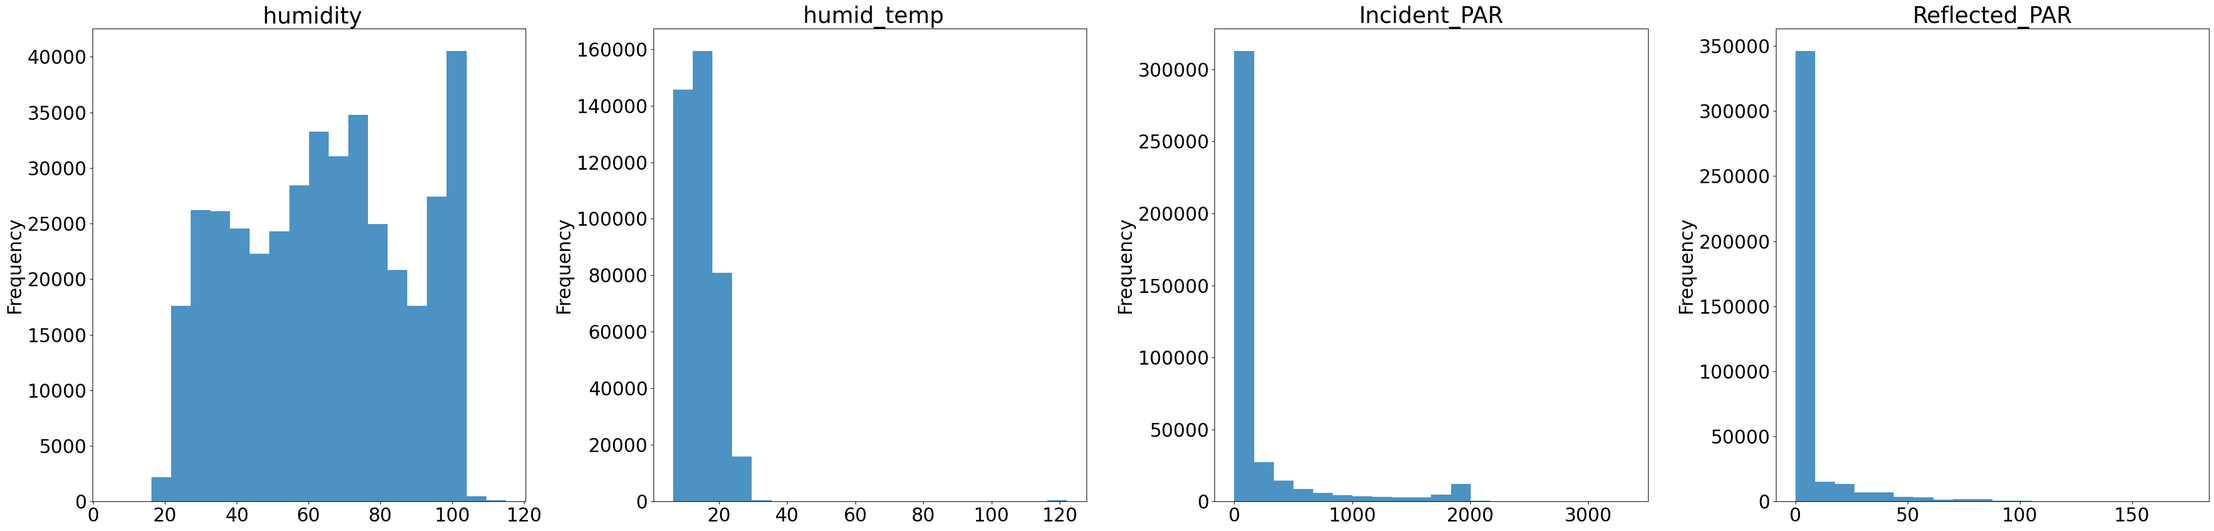
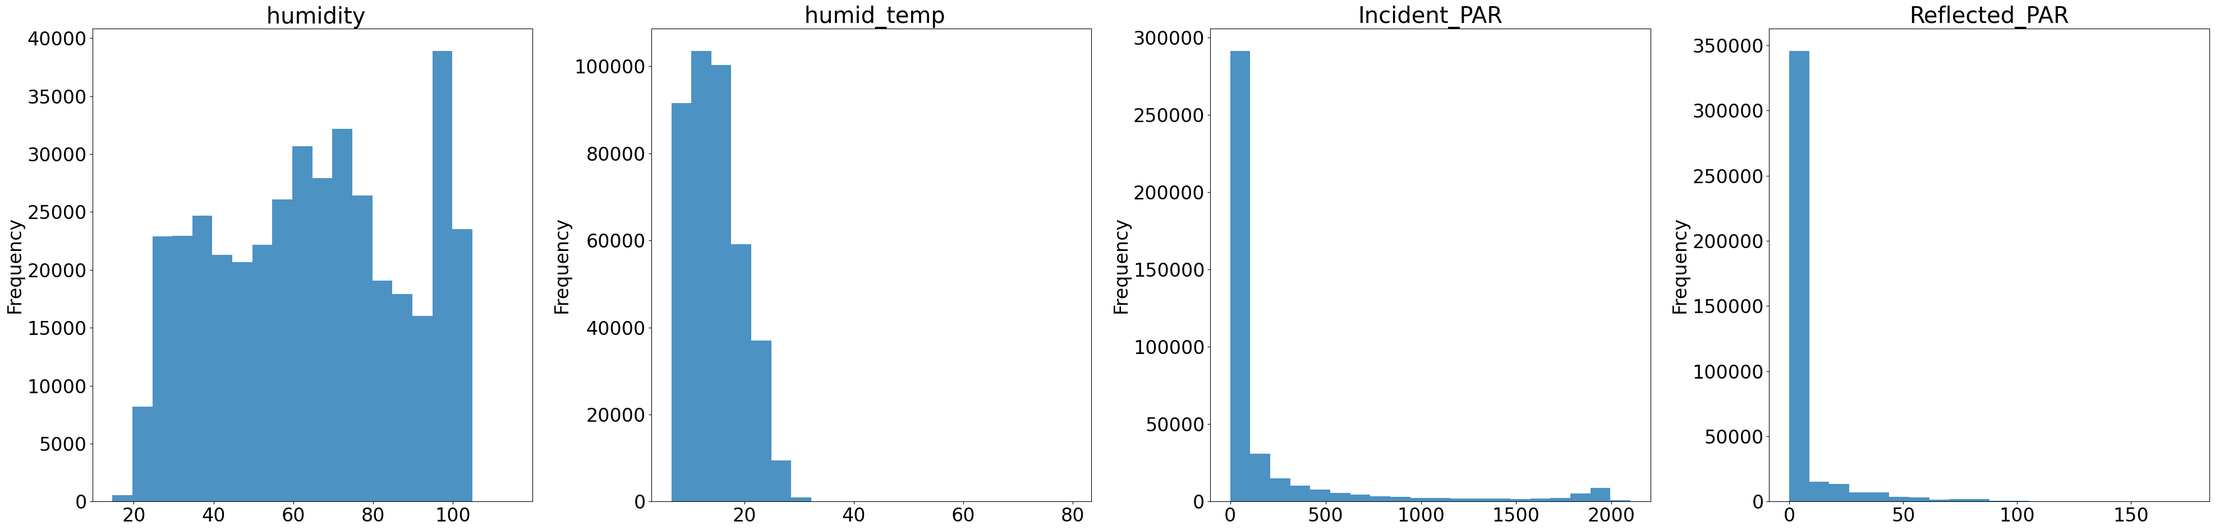
Updates from Overleaf

diff --git a/report.tex b/report.tex
@@ -24,13 +24,12 @@
 
 \section{Summary}
 \subsection{Paper Overview}
-The Redwoods paper demonstrated a case study by showing utilizing a sensor network enables a 
-more in-depth analysis of any organism. With better technology, we can capture much more data in longitude and granularity than we previously could using a single, limited piece of equipment.
-The motivation comes from numerous questions and requests from the local biologists. They have many intriguing things like studying, but the data availability hinders the observability and precludes
+The Redwoods paper provides a case study demonstrating that utilization of a sensor network could enable a more in-depth analysis of an organism. With better technology, we can capture much more data in longitude and granularity than we previously could using a single, limited piece of equipment.
+The motivation comes from numerous questions and requests from the local biologists. These scientists have many intriguing things to study, but the poor data availability hinders observability and precludes
 the possibility. The team decided on this study because the coastal redwood has a known micro-climate phenomenal variation within and across the days. It is the perfect subject for the demonstration and a great testbed to discover any limitations. With all these, the team showed that the newly acquired data reveals a much more complex dynamic system that Biologists have never been able to observe directly. The analysis also confirms that the redwood experiences substantial variation in temperature, moisture, and light levels throughout the day at its weather fronts.
 
 \subsection{Data Collection}
-The sensor network consists of 33 motes, a central network gateway, and an internal data logging backup. Each sensor is perfectly weathered while safely exposing the sensors, has its own battery, operating system, a top sensor for incident photosynthetically active radiation (PAR), and a bottom sensor for temperature, humidity, and reflected PAR. On average, they placed sensors across the entire redwood, mostly near the trunk and within a 1-meter radius, with 2-meter spacing. The placement started at the 15-meter mark and up to the pinnacle of the tree 67-meter. Such placement and spacing enable the sensors to capture the microclimate of the tree with the entire spectrum rather than the broader climate, which is our point of interest. One additional detail is that they placed most of their sensors on the west side of the tree because it has a ticker canopy to shield against environmental effects.
+The sensor network consists of 33 motes, a central network gateway, and an internal data logging backup. Each sensor is perfectly weathered while safely exposing the sensors. It has its battery, operating system, a top sensor for incident photosynthetically active radiation (PAR), and a bottom sensor for temperature, humidity, and reflected PAR. On average, they placed sensors across the entire redwood, mainly near the trunk and within a 1-meter radius, with 2-meter spacing. The placement started at the 15-meter mark and went up to the pinnacle of the tree 67-meter. Such placement and spacing enable the sensors to capture the microclimate of the tree with the entire spectrum rather than the broader climate, which is our point of interest. Another detail is that they placed most of their sensors on the west side of the tree because it has a ticker canopy to shield it against environmental effects.
 
 After nailing down the deployment plan, we have a few more things to confirm. The length of deployment is 44 days, starting on Tuesday, April 27th, 2004, at 5:10 pm and ending on Thursday, June 10th, 2004, at 2:00 pm. It also has a 5-minute sampling frequency. To put it precisely, it is up 4s every 5-minute to log the current sensor values, send it out through the network, and back to sleep again --- a 1.3\% duty cycle. In case of network failure, the readings were saved in the local logging system, which was retrieved after the experiment; however, it has a limited storage space and only works when the sensor battery is still up. 
 
@@ -44,11 +43,11 @@ The data comes in two separate files.
     \item \textit{sonoma\_log} corresponding to measurements stored in the internal logging system of each sensor.
     \item \textit{sonoma\_net} corresponding to measurements stored in a network cloud system by each sensor.
 \end{enumerate}
-The two datasets correspond to how the data is collected. All sensors capturing a measurement at a given time attempt to write the measurement to a network database. Since the transmission might fail due to network issues, the sensor also writes the measurement to an internal database resulting in the log dataset. There are several implications of this process, and we will address them in the following sections.
+The two datasets correspond to how the data is collected. All sensors capture measurements at a given time and attempt to write the measurements to a network database. Since the transmission might fail due to network issues, the sensor also writes the measurement to an internal database resulting in the log dataset. There are several implications of this process, and we will address them in the following sections.
 \begin{enumerate}
     \item There are differences in how the various quantities are measured in the log and the network dataset. This is displayed in Figure \ref{fig1}, where histograms are plotted for the variables of interest. We have found that the differences are largely due to outliers.
     \item For a given sensor and a given time, there might be repeated measurements, one for the log and one for the sensor. In fact, we have found multiple sensors with multiple log and net readings at a given epoch. See Section 2.6 for details.
-    \item Data yield is also a concern, The paper mentioned that have around 800k data point yield, but we only have around 415k data points in the given dataset after combining both the logged and network values. The actual effective yield is much lower due to duplicate or off measurements.
+    \item Data yield is also a concern; The paper mentioned that we have around 800k data point yield, but we only have around 415k data points in the given dataset after combining both the logged and network values. The actual effective yield is much lower due to duplicate or off measurements.
 \end{enumerate} \\
 
 \begin{figure}[!h]
@@ -61,11 +60,12 @@ The two datasets correspond to how the data is collected. All sensors capturing 
 \subsection{Part A: Histograms \& Converting Ranges}
 Figure \ref{fig1} is meant to be compared to Figure 3a in the paper. This highlights two issues: 1) That the ranges of the data are not necessarily the same between the \textit{sonoma\_log} and the \textit{sonoma\_net} datasets, and 2) Some of the measurement units are different from that of the paper, as can be seen by the vastly different ranges. We see this in the PAR variables \textit{hamatop} and \textit{hamabot}. This is expressed in Tables \ref{table:sonoma_net_pre_transform} and \ref{table:sonoma_log_pre_transform}, where we plot several statistics for each variable of interest. Therefore, one should not concatenate the two files without any pre-processing.
 \\ \\
-We conducted two transformations:
-\begin{itemize}
-    \item For hamatop and hamabot in both datasets, we posit that the collected PAR number is under the unit of LUX, and we need to convert it down to $\mu mol/m^2/s$ by dividing it by $54$. 
-    \item For voltage in \textit{sonoma\_net},  we convert xx
-\end{itemize}
+We conducted two transformations for hamatop and hamabot in both datasets. We posit that the collected PAR number is under the unit of LUX, and we need to convert it down to $\mu mol/m^2/s$ by dividing it by $54$. 
+\\ \\
+Also, For voltage in \textit{sonoma\_net},  we note that the range is quite different from \textit{sonoma\_log} and that in the paper. However, we could not find the appropriate conversion and thus did not convert it even though it has some relevance for data cleaning afterward.
+\\
+
+
 Tables \ref{table:sonoma_net_post_transform} and \ref{table:sonoma_log_post_transform} show the statistics of the variables after the transformations. As we can see, the ranges of the two histograms are still not equal. This is due to outliers. We will address this in Part B.
 
 
@@ -101,7 +101,7 @@ Tables \ref{table:sonoma_net_post_transform} and \ref{table:sonoma_log_post_tran
     \hline
 \end{tabular}
 %\caption{Statistics for \textit{sonoma\_log} Pre-Transformation}
-\captionof{table}{Statistics for \textit{sonoma\_log} Pre-Transformation}
+\captionof{tabe}{Statistics for \textit{sonoma\_log} Pre-Transformation}
 \label{table:sonoma_log_pre_transform}
 \end{figure}
 
@@ -111,7 +111,6 @@ Tables \ref{table:sonoma_net_post_transform} and \ref{table:sonoma_log_post_tran
 \begin{tabular}{ |c|c|c|c|c|c| } 
     \hline & Median & Mean & SD & 25 Percentile & 75 Percentile \\ 
     \hline
-    Voltage & ? & ?& 227.22 & 218.0 & 227.0 \\
     Hamatop (incident PAR) & 0.0 & 213.36 & 462.27 & 0.0 & 156.22\\
     Hamabot (Reflected PAR) & 0.0 & 5.03	& 14.91 & 0.0 & 0.0 \\
     \hline
@@ -126,8 +125,8 @@ Tables \ref{table:sonoma_net_post_transform} and \ref{table:sonoma_log_post_tran
 \begin{tabular}{ |c|c|c|c|c|c| } 
     \hline & Median & Mean & SD & 25 Percentile & 75 Percentile \\ 
     \hline
-    Hamatop (incident PAR) & 0.0 & 201.302679 & 896.706333 & 0.00000 & 125.228333 \\
-    Hamabot (Reflected PAR) & 0.0 & 4.546960 & 21.858109 &  0.00000 & 0.000000 \\
+    Hamatop (incident PAR) & 0.0 & 201.30 & 896.71 & 0.00 & 125.23 \\
+    Hamabot (Reflected PAR) & 0.0 & 4.55 & 21.86 &  0.00 & 0.00 \\
     \hline
 \end{tabular}
 %\caption{Statistics for \textit{sonoma\_log} after change of units}
@@ -142,18 +141,18 @@ There are also several sensors with missing data recorded in at least one of the
 \captionsetup{justification=centering}
 \centering
 \begin{tabular}{ |c|c|c|c|c| } 
-    \hline & n Original & n After Missing Data Removed & n Missing & \% Missing \\
+    \hline & num Original & num After Missing Data Removed & num Missing & \% Missing \\
     \hline
-    \textit{sonoma\_log} & 301,056 & 292,786 & 8,270 &2.746\\ 
-    \textit{sonoma\_net}  & 114,980 & 110,718 & 4,262 & 3.706\\
+    \textit{sonoma\_log} & 301,056 & 292,786 & 8,270 &2.75\\ 
+    \textit{sonoma\_net}  & 114,980 & 110,718 & 4,262 & 3.71\\
     \hline
 \end{tabular}
 \captionof{table}{Size of log and network data sets, before and after missing data is removed.}
 \label{table:data_info}
 \end{figure}
 
-\subsection{Part C: Location Auxiliary Data}
-The next step is combining the measurements with the sensors' spatial information. This is done by joining the mote-location dataset with sonoma-log and sonoma-net on the ID and nodeid attributes. The resulting datasets have 14 columns each. The column names are listed in appendix b.
+\subsection{Part C: Combining Auxiliary Location Data}
+The next step is combining the measurements with the sensors' spatial information. This is done by joining the mote-location dataset with sonoma-log and sonoma-net on the ID and nodeid attributes. The resulting datasets have 14 columns each. The column names are listed in Appendix A.
 
 
 \subsection{Part D \& E: Outliers}
@@ -162,13 +161,13 @@ In this section, we further cleaned the data by removing outliers. We consider 2
     \item Outliers data measurements have abnormally high or low values of one of the variables of interest.
     \item Repeated measurements where a node has multiple measurements at a single epoch.
 \end{enumerate}
-Point 1. can be done in 2 ways. Firstly we combine the net and log data, threshold points are then set visually, and we classify data points beyond thresholds as outliers and remove them. To do this, we start off with the histogram in Figure \ref{fig3:combined_hist}. 
+Point 1. can be done in 2 ways. Firstly we combine the net and log data, threshold points are then set visually, and we classify data points beyond thresholds as outliers and remove them. To do this, we start with the histogram in Figure \ref{fig3:combined_hist}. 
 
 \begin{figure}[h!]
 \centering
 \captionsetup{justification=centering}
 \includegraphics[width=1.0\textwidth]{Fig3_combined_hist.png}
-\caption{Before the outlier removal}
+\caption{Histograms of humidity, temperature, incident PAR and reflected PAR before the outlier removal}
 \label{fig3:combined_hist}
 \end{figure}
 
@@ -176,27 +175,27 @@ We set the following manual thresholds for the 4  variables, humidity, temperate
 
 \begin{itemize}
     \item humid: \textit{humid} $<$ 5
-    \item Temperature: \textit{Temperature} $>$  140
-    \item Incident\_PAR: \textit{Incident\_PAR} $>$  110000
+    \item Temperature: \textit{Temperature} $>$  80
+    \item Incident\_PAR: \textit{Incident\_PAR} $>$  2100
     \item Reflected\_PAR: \textit{Reflected\_PAR} $>$  2000
 \end{itemize}
-In total, 864 points hit one of the conditions, with most data points (n=874) having a negative humidity. We further found that one data point is largely responsible for the large values in incident PAR and reflected PAR. After cleaning, the resulting histograms are shown in \ref{fig3:combined_hist_after_clean}. We can see that the histograms look much better, and the distribution of each variable is much more reasonable.
+In total, 1407 points hit one of the conditions, with most data points (n=874) having a negative humidity. We further found that one data point is largely responsible for the large values in incident PAR and reflected PAR. After cleaning, the resulting histograms are shown in \ref{fig3:combined_hist_after_clean}. We can see that the histograms look much better, and the distribution of each variable is much more reasonable.
 
 \begin{figure}[h!]
 \centering
 \captionsetup{justification=centering}
 \includegraphics[width=1.0\textwidth]{Fig4_combined_hist_after.png}
-\caption{After the outlier removal}
+\caption{Histograms of humidity, temperature, incident PAR, and reflected PAR after the outlier removal}
 \label{fig3:combined_hist_after_clean}
 \end{figure}
 
 
 \subsection{Part E: Additional Pre-Processing}
-We consider two additional cleaning measures. Removing readings at low voltages and removing repeated readings. With all the pre-processing, we end up with a dataset of $287,207$ in size.
+We consider two additional cleaning measures. We are removing readings at low voltages and removing repeated readings. With all the pre-processing, we end up with a dataset of $287,207$ in size.
 \\ \\
-\underline{Low Voltage}: The paper mentions that all readings taken where the node's voltage was outside of the range of 2.4 and 3 were removed. This range corresponds to the operational range of the sensor battery. If a sensor operates under a low battery condition, the outputting measurement is unreliable; thus, we can assume that readings taken outside this range have a high chance of being erroneous. As a first check, all outliers detected in Section 3.4 have voltages below 2.4, with the highest having 2.3291 volts and the lowest having 0.00906 volts. To keep in line with the paper, we removed an additional 28,699 data points where the voltage was outside $[2.4, 3]$.
+\underline{Low Voltage}: The paper mentions that all readings taken where the node's voltage was outside of the range of 2.4 and 3 were removed. This range corresponds to the operational capacity of the sensor battery. If a sensor operates under a low battery condition, the outputting measurement is unreliable; thus, we can assume that readings taken outside this range are highly erroneous. As a first check, all outliers detected in Section 3.4 have voltages below 2.4, with the highest having 2.3291 volts and the lowest ha 0.00906 volts. To keep in line with the paper, we removed an additional 28,699 data points where the voltage was outside $[2.4, 3]$. Also, note that we could only conduct this step for measurements from the log data.
 \\ \\
-\underline{Repeated Measurements}: As mentioned in Section xx. There are numerous data entries where the nodeid and the measurement epoch (time of measurement) are the same. This implies that exists multiple measurements for the same node at the same time period. We want to remove such duplicate entries because they can potentially skew the statistics and introduce un-welcomed bias. One way this duplication occurs is when both a log and a net value get saved for a given node and epoch. In total, there are $72,755$ node-epoch pairs where this duplication occurs. After inspecting these pairs, we find that the measurements are often the same, but there can be deviations in some cases. We also found that duplication can occur because the sensor writes multiple times in a short time to the network or to the log; this was the case for sensor nodeid 118. To de-duplicate, we take a random data point with a preference for the network measurements when all the measurements are the same. We take the smaller measurements if they are different. 
+\u,nderline{Repeated Measurements}: As mentioned in Section 2.1. There are numerous data entries where the nodeid and the measurement epoch (time of measurement) are the same. This implies multiple measurements exist for the same node at the same period. We want to remove such duplicate entries because they can potentially skew the statistics and introduce un-welcomed bias. One way this duplication occurs is when both a log and a net value get saved for a given node and epoch. In total, there are $72,755$ node-epoch pairs where this duplication occurs. After inspecting these pairs, we find that the measurements are often the same, but there can be deviations in some cases. We also found that duplication can occur because the sensor writes multiple times in a short time to the network or the log; this was the case for sensor node 118. To de-duplicate, we take a random data point with a preference for the network measurements when all the measurements are the same. We take the smaller measurements if they are different. 
 
 
 \section{Exploratory Data Analysis (EDA)}
@@ -230,7 +229,7 @@ We can see the intra-day behavior more explicitly in the following plots (Figure
 
 
 \paragraph{Inter-Day Temporal Trend}
-Now we move away from the intra-day variations to the inter-day analysis. Here we plotted (Figure \ref{fig:ts_trend}) the first 4 days of the experiment because it has the highest data yield and quality. We can see that Temperature and Humidity vary wildly between days, and the differences in Height become less important. On the contrary, both PAR measures follow a periodic intra-day behavior and a similar daily pattern. The differences in Height are quite evident in Incident PAR but not that clear in Reflected PAR.
+Now we move away from the intra-day variations to the inter-day analysis. Here we plotted (Figure \ref{fig:ts_trend}) the first 4 days of the experiment because it has the highest data yield and quality. We can see that Temperature and Humidity vary wildly between days, and the differences in Height become less critical. On the contrary, both PAR measures follow a periodic intra-day behavior and a similar daily pattern. The differences in Height are pretty evident in Incident PAR but not that clear in Reflected PAR.
 \begin{figure*}[h!]
 \centering
 \includegraphics[width=0.7\textwidth]{eda_3.4.png}
@@ -241,7 +240,7 @@ Now we move away from the intra-day variations to the inter-day analysis. Here w
 
 
 \paragraph{PCA Analysis}
-Lastly, we aggregated the data down to the sensor level and calculated the means for all four measures (humidity, temperature, incident, and reflected PAR) at each individual hour, along with their metadata (height, distance, and direction). After some one-hot encoding, the result is a $\mathbf{R}^{29x105}$ matrix. We ran a PCA analysis on it and expected to see how each node behaves differently at different hours of the day concerning any of the measurements. The scree plot, Figure \ref{fig:pca_scree}, shows that the data process some lower-dimensional structures. With only 5 PC components, they explain up to 80\% of the variances. Moreover, we obtained an interesting insight by plotting the first and second PC components, Figure \ref{fig:pca_comp}, and color-coded them by each sensor's height. Most lower-level sensors experience fewer variations both during the day and the night. And those sensors located at the weather front of the tree tended to experience a large variation in either temperature and humidity at night or larger PAR during the day.
+Lastly, we aggregated the data down to the sensor level. We calculated the means for all four measures (humidity, temperature, incident, and reflected PAR) at each individual hour and their metadata (height, distance, and direction). After some one-hot encoding, the result is a $\mathbf{R}^{29x105}$ matrix. We ran a PCA analysis on it and expected to see how each node behaves differently at different hours of the day concerning any of the measurements. The scree plot, Figure \ref{fig:pca_scree}, shows that the data process some lower-dimensional structures. With only 5 PC components, they explain up to 80\% of the variances. Moreover, we obtained an exciting insight by plotting the first and second PC components, Figure \ref{fig:pca_comp}, and color-coded them by each sensor's height. Most lower-level sensors experience fewer variations both during the day and the night. And those sensors located at the weather front of the tree tended to experience a significant variation in either temperature and humidity at night or larger PAR during the day.
 \begin{figure*}[h!]
 \centering
 \includegraphics[width=0.4\textwidth]{eda_3.7.png}
@@ -260,7 +259,7 @@ Lastly, we aggregated the data down to the sensor level and calculated the means
 
 \section{Interesting Findings}
 \paragraph{Factor Analysis - Incident PAR with GLM}
-To go further, we would like to see if we can quantify the relation between Incident PAR and other covariates. Hence, we used a Generalized Linear Model (GLM) with a Gamma sampling likelihood. Figure \ref{fig:glm_coef} shows the resulting coefficients. Despite we saw a slight relationship between PAR and Temperature and Humidity; having them in the GLM does not help with the overall RSS; hence we decided to leave them out to keep a parsimonious model. As we expected, the hour of the day holds the most influence over the Incident PAR. Next is directions. Both east and northeast tend to receive more sunlight. Height has a relatively "low" predictive power than the other covariates. It makes sense. No sensor receives radiation, no matter its height, during the night. Nevertheless, $\exp(0.0369)$ still results in $1.4\times$ more radiation per 1 meter higher than the baseline. That is $6.3\times$ difference between the top of the tree, 70-meter, and the bottom, 20-meter.
+To go further, we would like to see if we can quantify the relation between Incident PAR and other covariates. Hence, we used a Generalized Linear Model (GLM) with a Gamma sampling likelihood. Figure \ref{fig:glm_coef} shows the resulting coefficients. Despite the fact that we saw a slight relationship between PAR and Temperature and Humidity, having them in the GLM does not help with the overall RSS; hence we decided to leave them out to keep a parsimonious model. As we expected, the hour of the day holds the most influence over the Incident PAR. Next is directions. Both east and northeast tend to receive more sunlight. Height has a relatively "low" predictive power than the other covariates. It makes sense. No sensor receives radiation, no matter its height, during the night. Nevertheless, $\exp(0.0369)$ still results in $1.4\times$ more radiation per 1 meter higher than the baseline. That is a $6.3\times$ difference between the top of the tree, 70-meter, and the bottom, 20-meter.
 \begin{figure*}[h!]
 \centering
 \includegraphics[width=0.7\textwidth]{eda_3.5.png}
@@ -270,7 +269,7 @@ To go further, we would like to see if we can quantify the relation between Inci
 \end{figure*}
 
 \paragraph{Inter \& Intra Day Clustering with GMM}
-Next, we used GMM to cluster inter and intra-day behaviors under the assumption that the microclimate follows a low dimensional latent periodic regime change. For the inter-day relationship, we aggregated the data down to the day level, calculated the means and variances of all 4 variables, and followed a standardization treatment. The resulting GMM clusters are 3. We can see the redwood experience shift between two of the regime and occasionally switch to the third. Furthermore, for intra-day behaviors, we obtained the same features but at a 15-minute aggregation on only the date May 1st, 2004. Tolle also presented this day with a different perspective. Hence, we can have a comparison. As expected, the ideal GMM cluster for that day is 2. One for the night and one for the daytime.
+Next, we used GMM to cluster inter and intra-day behaviors, assuming that the microclimate follows a low dimensional latent periodic regime change. For the inter-day relationship, we aggregated the data down to the day level, calculated the means and variances of all 4 variables, and followed a standardization treatment. The resulting GMM clusters are 3. We can see the redwood experience shift between two of the regime and occasionally switch to the third. Furthermore, for intra-day behaviors, we obtained the same features but at a 15-minute aggregation on only the date May 1st, 2004. Tolle also presented this day with a different perspective. Hence, we can have a comparison. As expected, the ideal GMM cluster for that day is 2. One for the night and one for the daytime.
 \begin{figure*}[h!]
 \centering
 \includegraphics[width=0.8\textwidth]{if_4.3.png}
@@ -280,19 +279,26 @@ Next, we used GMM to cluster inter and intra-day behaviors under the assumption 
 \end{figure*}
 
 \paragraph{Inter-Day Auto-Correlation}
-
+Even though we see that Temperature doesn't follow any obvious trend under a week, we otherwise observed a periodic behavior across the week when we started plotting the data over the entire experiment window. Figure \ref{fig:temp_autocor} shows the long-term Temperature on the left and its auto-correlation on the right. We can see that there are both large and small cycles in the Temperature variations.
+\begin{figure*}[h!]
+\centering
+\includegraphics[width=0.8\textwidth]{if_4.4.png}
+\captionsetup{justification=centering}
+\caption{Long-term Temperature Auto-Correlation}
+\label{fig:temp_autocor}
+\end{figure*}
 
 
 
 \section{Graph Critique}
 \subsection{Part a: Log Transform of Data}
-We took a log transformation on the incident and the reflected PAR and plotted them. Note that since many zero values exist, we add a small positive constant to all values before taking the log.
+We take a log transformation on the incident and the reflected PAR and plot them. Note that since many zero values exist, we decided to split the plot into two. Firstly we plot the distribution of zero to non-zero values in a barplot; we then take a log transform of the non-zero values and plot the histogram.
 \\ \\
 \begin{figure}[h!]
 \centering
 \captionsetup{justification=centering}
 \includegraphics[width=0.9\textwidth]{Report Images/graph_critique_a_v2.png}
-\caption{PAR distribution under the log transformation}
+\caption{PAR distribution under the log transformation. Left Column: Distribution of zero vs. non-zero values. Right Column: Histogram of the log-transformed non-zero values}
 \label{fig:graph_crtique_a}
 \end{figure}
 Figure \ref{fig:graph_crtique_a} shows the log-transformed Incident and Reflected PAR. We can see the large number of zero values. Aside from that, we see that the remaining non-zero log incident PAR values have a bimodal distribution, with a mode around 5 and close to 8. For reflected PAR, we see that majority of the data points are 0, with the remaining values ranging from 2-4; we see no discernible distribution here.
@@ -300,29 +306,29 @@ Figure \ref{fig:graph_crtique_a} shows the log-transformed Incident and Reflecte
 \subsection{Part b: Boxplot Evaluation}
 We note two issues with the boxplots.
 \begin{enumerate}
-    \item We know there are significant variations in the data across time, hence it might be misleading to summarise all the data in a boxplot.
-    \item We know that the distribution for incident PAR and reflected PAR is zero-inflated and multimodal, hence summarising in a boxplot can be misleading.
+    \item We know there are significant variations in the data across time. Hence it might be misleading to summarise all the data using multiple boxplots across time.
+    \item We know that the distribution for incident PAR and reflected PAR is zero-inflated and multimodal. Hence summarising in a boxplot can be misleading.
 \end{enumerate}
-We focus on point 2, as the author's meant to remove the time dimension in the plot. Comparing to figure 4 of the paper, we see that incident PAR and reflected PAR has many zero values at the sampled time point. This is something the boxplot representation fails to capture. \\
-Instead we have plotted a similar diagram but with each boxplot replaced by a KDE plot of the values. This is plotted in Figure \ref{fig:graph_crtique_b}. Note that we have sub-sampled the heights in order to create a plot more reasonably sized plot. With the KDE we can see clearly both the large number of zeros as well as the shifting distribution of the non zero values as the height increases.
+We focus on point 2, as the author meant to remove the time dimension in the plot. Compared to Figure 4 of the paper, we see that incident PAR, and reflected PAR has many zero values at the sampled time point. This is something the boxplot representation fails to capture. \\
+Instead, we have plotted a similar diagram with each boxplot replaced by a KDE plot of the log-transformed values. Note that we have added a small constant to the zero values. This is plotted in Figure \ref{fig:graph_crtique_b} for Incident PAR as an example. Note also that we have sub-sampled the heights to create a more reasonably sized plot. With the KDE, we can see clearly both a large number of zeros as well as the shifting distribution of the non-zero values as the height increases.
 \begin{figure}[h!]
 \centering
 \captionsetup{justification=centering}
-\includegraphics[width=0.9\textwidth]{Report Images/Fig7_graph_criqitue_bv2.png}
-\caption{PAR distribution under the log transformation}
+\includegraphics[width=0.8\textwidth]{Report Images/Fig7_graph_criqitue_bv2.png}
+\caption{Incident PAR distribution under the log transformation}
 \label{fig:graph_crtique_b}
 \end{figure}
 \\
 
 \subsection{Part c: Sequence Plot Evaluation}
-The authors have plotted each node's readings with a unique color. Due to the large number of nodes, the colors are hard to distinguish and it is generally hard to pick out any trends. We consider two variations of the same plot, firstly, one where the information curve information is obscured and we plot a mean curve with estimated standard deviations, and two one where we color each curve by its height according to a color gradient.
+The authors have plotted each node's readings with a unique color. Due to the large number of nodes, the colors are hard to distinguish, and it is generally hard to pick out any trends. Instead, we consider an alternative where we color each curve by its height according to a color gradient. This is shown in Figures \ref{fig:graph_crtique_c1} and \ref{fig:graph_crtique_c2}.
 \\
 \\
-In the first variation, we color each curve by the height of its node. Generally one would use a sequential color bar to represent this information, however we have found the sequential color bars hard to see due to large range of heights even after normalization. Hence we chose to use a diverging color bar instead. We can see from Figures \ref{fig:graph_crtique_c1} and \ref{fig:graph_crtique_c2}, that the plots now show us a very clear trend that higher up nodes have a lower humidity and higher temperature lower height nodes have a higher humidity and lower temperature.  This is new information that the previous graph of the authors were unable to showcase.
+Generally, one would use a sequential color bar to represent this information. However, we found the sequential color bars hard to see due to the large range of heights, even after normalization. Hence we chose to use a diverging color bar instead. See from Figures \ref{fig:graph_crtique_c1} and \ref{fig:graph_crtique_c2} that the plots now show us a very clear trend that higher up nodes have lower humidity and higher temperature lower height nodes have higher humidity and lower temperature.  This is new information that the previous graph of the authors was unable to showcase in the paper.
 \begin{figure}[h!]
 \centering
 \captionsetup{justification=centering}
-\includegraphics[width=0.9\textwidth]{Report Images/fig8_graph_critique_c1.png}
+\includegraphics[width=0.8\textwidth]{Report Images/fig8_graph_critique_c1.png}
 \caption{Time Series of Humidity Values Per Node with Curves Colored by Node Height}
 \label{fig:graph_crtique_c1}
 \end{figure}
@@ -330,23 +336,29 @@ In the first variation, we color each curve by the height of its node. Generally
 \begin{figure}[h!]
 \centering
 \captionsetup{justification=centering}
-\includegraphics[width=0.9\textwidth]{Report Images/fig8_graph_critique_c2.png}
+\includegraphics[width=0.8\textwidth]{Report Images/fig8_graph_critique_c2.png}
 \caption{Time Series of Temperature Values Per Node with Curves Colored by Node Height}
 \label{fig:graph_crtique_c2}
 \end{figure}
-\\
+
 
 \subsection{Part d: Differences in Network and Log}
+The main issue we find with Figures 7a and 7b of the paper is that the network and log data are plotted separately. This can make comparisons between the two difficult. We also found that the leftmost plot does not convey useful information that is not already available in the other three graphs; hence we dropped it.  Lastly, we found that the second leftmost plot is messy when plotted using the boxplot. Therefore, we only plot the daily average percentage yield to underscore the differences. 
+\\
+\begin{figure}[h!]
+\centering
+\captionsetup{justification=centering}
+\includegraphics[width=1\textwidth]{Report Images/graph_critique_d.png}
+\caption{Reworked Comparisons Between Network and Log Data Yield}
+\label{fig:graph_crtique_d}
+\end{figure}
+\\
 
-asd
+Figure \ref{fig:graph_crtique_d} shows our modified version of Figures 7a and 7b. As can be seen, the net and log information are plotted onto the same axis, allowing easier comparison. We can see clearly that the log yield generally exceeds the net yield for almost all nodes. Further, the log tends to be operational for more days than the network storage. 
 
 \pagebreak
 
 \begin{appendices}
-\section{Data Pre-Processing Plots and Tables}
-% the \\ insures the section title is centered below the phrase: AppendixA
-
-Text of Appendix A is Here
 
 \section{Features in Data}
 % the \\ insures the section title is centered below the phrase: Appendix B
@@ -361,7 +373,7 @@ Text of Appendix A is Here
     \item humidity
     \item humid\_temp
     \item humid\_adj
-    \item Incident\_PAR(hamatop)
+   atem Incident\_PAR(hamatop)
     \item Reflected\_PAR(hamabot)
     \item Height
     \item Direc
